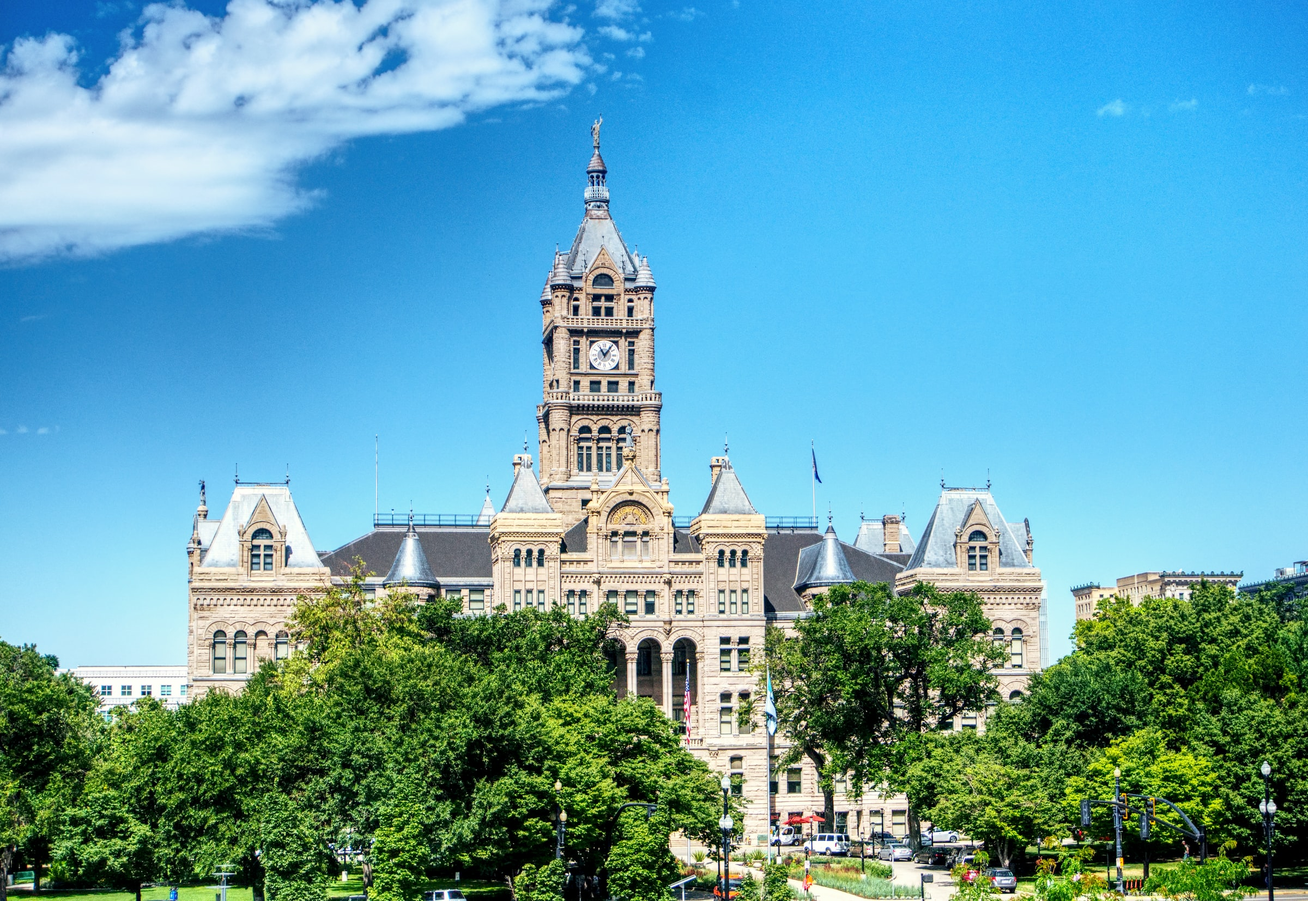
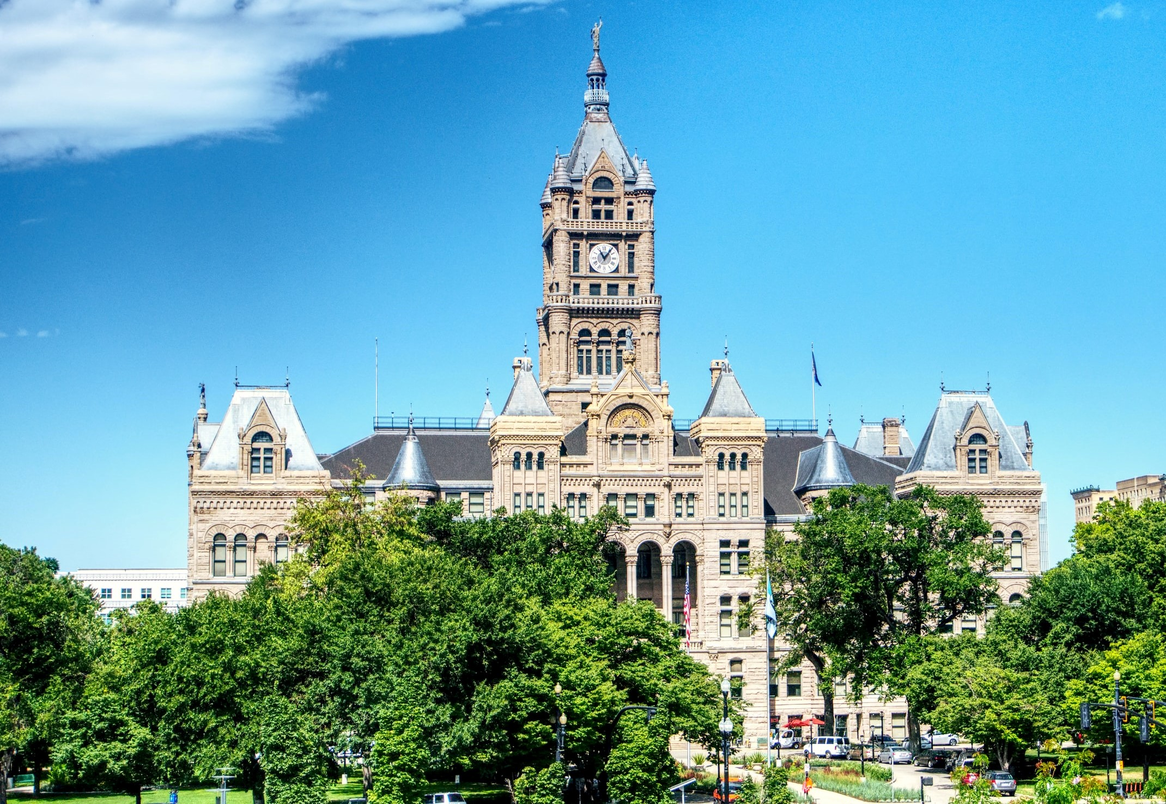
social media v6

diff --git a/lesson-12/index.html b/lesson-12/index.html
@@ -40,7 +40,7 @@
     <nav class="clearfix">
       <button onclick="toggleMenu()">&#9776; Menu</button>
       <ul id="navigation">
-        <li class="active"><a href="index.html">Salt Lake</a></li>
+        <li class="active"><a href="index.html">SLC Area Chamber</a></li>
         <li><a href="membership.html">Membership</a></li>
         <li><a href="directory.html">Directory</a></li>
         <li><a href="contact.html">Contact</a></li>
@@ -72,54 +72,30 @@
         />
       </picture>
 
-      <article>
-        <h2>The Weather in Utah in the last decade.</h2>
-        <aside>
-          <img
-            src="images/city_view_medium.jpg"
-            alt="Home Image"
-            class="home"
-          />
-          <p>
-            Lorem ipsum dolor sit amet consectetur, adipisicing elit. Nobis
-            aspernatur odit est quas minima praesentium vero dolore
-            reprehenderit porro voluptatum ipsum placeat cupiditate voluptate
-            nam tenetur maiores excepturi rerum sunt magni temporibus unde, fuga
-            qui quos? Numquam sit quos temporibus, neque officia earum, quae
-            tempora aspernatur ullam itaque asperiores! Sapiente vero quaerat
-            sunt autem praesentium repudiandae, odio, quo error debitis delectus
-            soluta dolores sit in aperiam. Voluptates rerum repellendus facilis
-            quidem quaerat esse enim sit animi earum nisi velit inventore
-            maiores excepturi aperiam deserunt libero debitis facere, nesciunt
-            in ex, nam quod. Magni laborum beatae saepe quaerat possimus
-            deleniti ipsam. Nobis aspernatur odit est quas minima praesentium
-            vero dolore reprehenderit porro voluptatum ipsum placeat cupiditate
-            voluptate nam tenetur maiores excepturi rerum sunt magni temporibus
-            unde, fuga qui quos? Numquam sit quos temporibus, neque officia
-            earum, quae tempora aspernatur ullam itaque asperiores! Nobis
-            aspernatur odit est quas minima praesentium vero dolore
-            reprehenderit porro voluptatum ipsum placeat cupiditate voluptate
-            nam tenetur maiores excepturi rerum sunt magni temporibus unde, fuga
-            qui quos? Numquam sit quos temporibus, neque officia earum, quae
-            tempora aspernatur ullam itaque asperiores!
-          </p>
-        </aside>
+      <div class="first">
+        <h2>The propose.</h2>
+        <p>
+          Lorem ipsum dolor sit amet consectetur, adipisicing elit. Nobis
+          aspernatur odit est quas minima praesentium vero dolore reprehenderit
+          porro voluptatum ipsum placeat cupiditate voluptate nam tenetur
+          maiores excepturi rerum sunt magni temporibus unde, fuga qui quos?
+          Numquam sit quos temporibus, neque officia earum, quae tempora
+          aspernatur ullam itaque asperiores! Sapiente vero quaerat sunt autem
+          praesentium repudiandae, odio, quo error debitis delectus soluta
+          dolores sit in aperiam.
+        </p>
+      </div>
 
-        <img
-          src="images/city_view_small.jpg"
-          alt="Home Image"
-          class="home-small"
-        />
-      </article>
-
+      <div>
+        <h2>Weather Forecast</h2>
+      </div>
       <div>
         <h2>Upcoming Events</h2>
         <div id="prestonEvents"></div>
       </div>
-      <div>
+      <div class="shop">
         <h2>Shop Local</h2>
       </div>
-      <h2>Contact us</h2>
       <section class="contact_info">
         <div>
           <img src="images/pin_postal_icon.png" alt="icon_address" />
@@ -133,6 +109,14 @@
         <div>
           <img src="images/email_icon_64px.png" alt="icon_email" />
           <p>contact@slchamber.com</p>
+        </div>
+        <div>
+          <span id="header-social">
+            <img src="images/facebook_icon.png" alt="icon_facebook" />
+            <img src="images/instagram_icon.png" alt="icon_instagram" />
+            <img src="images/twitter_icon.png" alt="icon_twitter" />
+            <img src="images/pinterest_icon.png" alt="icon_pinterest" />
+          </span>
         </div>
       </section>
     </main>

diff --git a/lesson-12/css/small.css b/lesson-12/css/small.css
@@ -29,6 +29,11 @@ header img {
   padding-right: 10px;
 }
 
+#social-header {
+  
+
+}
+
 /*----------- NAVIGATION --------------*/
 
 nav button {
@@ -54,7 +59,7 @@ nav ul li a {
   background-color: #70a9a1;
   text-align: center;
   text-decoration: none;
-  font-size: 1.5rem;
+  font-size: 1.2rem;
 }
 
 nav ul li.active a {
@@ -62,6 +67,11 @@ nav ul li.active a {
   color: #1f363d;
   border-style: ridge;
   border-color: #1f363d;
+}
+
+
+.hide {
+  display:none;
 }
 
 /*----------- MAIN --------------*/
@@ -80,26 +90,23 @@ main h1 {
 
 main picture img {
   width: 100%;
-  height: auto;
-  object-fit: cover;
-  padding: 10px 10px 40px 10px;
+  object-fit: contain;
+  
 }
 
 main h2 {
   text-align: center;
 }
 
-.hero_one {
-  padding-top: 10px;
-}
 
 #forecast {
   display: block;
 }
 
-article aside {
-  margin: 0.8rem;
-  width: 95%;
+.first {
+  margin-left: 0.7rem;
+  padding-right: 1.5rem;
+  text-align:justify;
 }
 
 .home {
@@ -115,13 +122,17 @@ article aside {
   margin: 4px auto 4px auto;
 }
 
+.shop {
+  display:none;
+}
+
 .contact_info {
   width: 100%;
   display: grid;
   grid-template-columns: 1fr;
   justify-items: center;
   font-size: 16px;
-  line-height: 1rem;
+  line-height: 0.6rem;
   background-color: #70a9a1;
 }
 
@@ -149,7 +160,7 @@ form label.field select {
 }
 
 form label.field input:required {
-  border-left: 6px solid #ba324f;
+  border-left: 2px solid #ba324f;
 }
 
 form label.field input:required:valid {
@@ -188,9 +199,7 @@ div,
   background-color: #cfe0c3;
 }
 
-#map_two {
-  display: none;
-}
+
 
 /*----------- FOOTER --------------*/
 footer {

diff --git a/lesson-12/css/medium.css b/lesson-12/css/medium.css
@@ -38,10 +38,6 @@
 
   /*----------- MAIN --------------*/
 
-  .principal {
-    padding-top: 20px;
-  }
-
   main h1 {
     padding-top: 10px;
     padding-left: 38%;
@@ -65,13 +61,6 @@
     line-height: 2rem;
   }
 
-  article p {
-    min-width: 25rem;
-  }
-
-  aside {
-    width: 30%;
-  }
 
   .home {
     display: block;
@@ -80,18 +69,6 @@
     border: 1px solid #808080;
     float: right;
     margin: 0 5px 0 15px;
-  }
-  .girl {
-    display: block;
-    width: 30%;
-    height: auto;
-    border: 1px solid #808080;
-    float: right;
-    margin: 0 5px 0 15px;
-  }
-
-  .girl-small {
-    display: none;
   }
 
   .home-small {
@@ -112,15 +89,13 @@
     flex-direction: row-reverse;
   }
 
-  
-
+  .shop { 
+    display: block;
+  }
   .contact_info {
-    height: 150px;
-    font-size: 16px;
-    display: grid;
+    height: auto;
     grid-template-columns: 1fr 1fr 1fr;
     grid-gap: 1rem;
-
   }
 
   .info {
@@ -133,7 +108,7 @@
   }
 
   .btn {
-    margin-left: 40%;
+  margin-left: -20px;
   }
 
   .nova {

diff --git a/lesson-12/css/large.css b/lesson-12/css/large.css
@@ -41,15 +41,7 @@
     padding-left: 43%;
   }
 
-  .gallery {
-    grid-template-columns: 1fr 1fr 1fr;
-    padding-left: 1rem;
-  }
-
-  main picture img {
-    padding: 50px 70px 50px 70px;
-  }
-
+ 
   #forecast {
     grid-template-columns: 140px 130px 130px 130px 130px;
     grid-gap: 40px;
@@ -83,12 +75,7 @@
     padding-top: 20px;
   }
 
-  .contact_info {
-    height: auto;   
-    font-size: 25px;
-  }
-
-  .info {
+   .info {
     font-size: 25px;
     line-height: 6rem;
   }
@@ -107,7 +94,7 @@
   }
 
   .btn {
-    margin-left: 42%;
+    margin-left: -30px;
   }
 
   /*----------- FOOTER --------------*/
